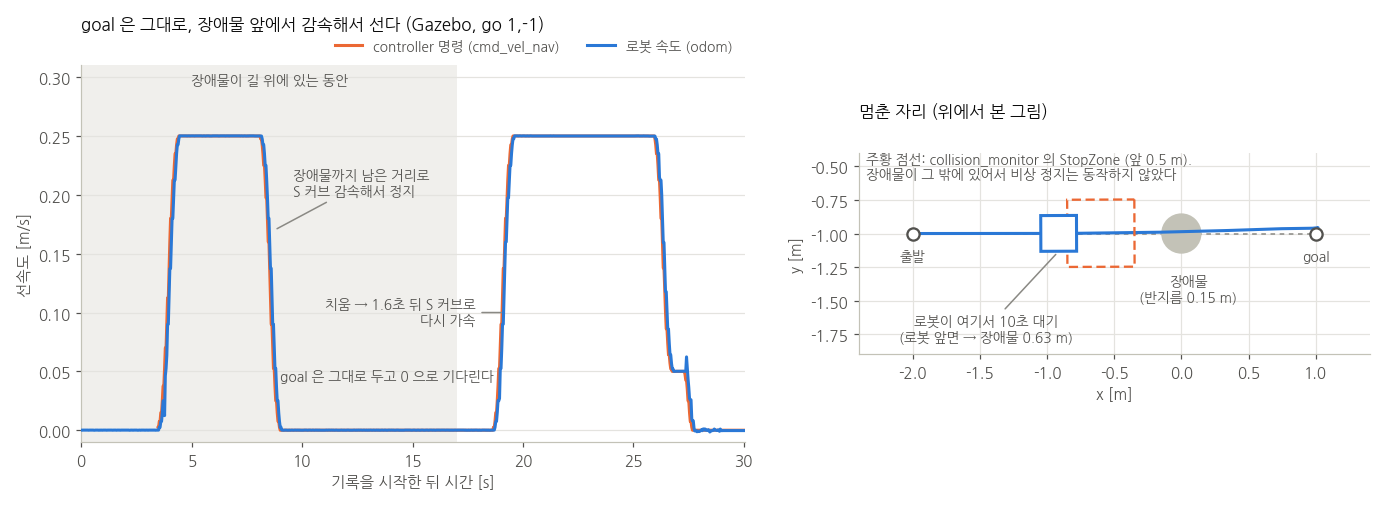
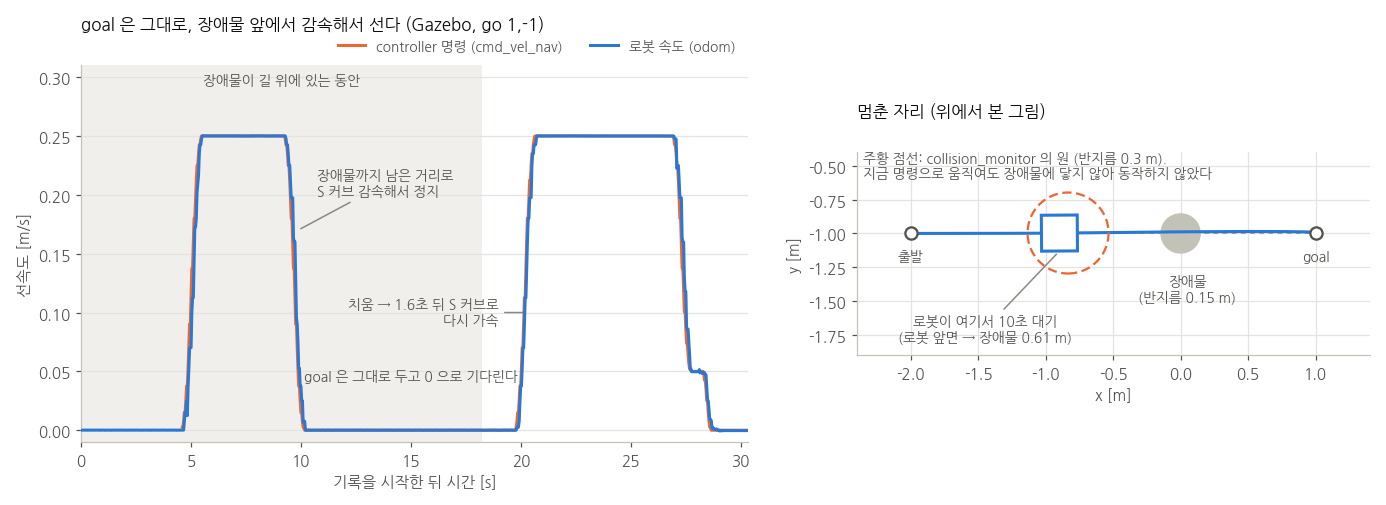
Let the robot turn away from an obstacle: direction-aware collision_monitor
With an obstacle inside the StopZone the robot could not turn around to leave: the stop action
zeroes the rotation too, so a goal behind the robot never started (0.5 deg in 60 s).

- collision_monitor: replace the front rectangle (stop) with a 0.3 m circle using approach. It moves
  the circle along the commanded twist for 1.2 s and only slows down motions that would hit, so
  turning in place or moving away is allowed. The circle covers the waffle's turning sweep (rear
  corners 0.24 m from the wheel axis), so a turn that would really hit is still blocked.
- Controller: a large heading change (new goal on the other side) starts the turn right away and
  clears the obstacle-wait state instead of waiting 1.6 s for it to time out.
- Controller: ignore obstacle cells behind the rotation center; the check around the first path
  point used to see the obstacle the robot had just turned its back on and kept it from leaving.
- Docs: AMR.md 5-2 (why not a rotation exception, field switching on real AMRs, approach in Humble),
  turn-away results and figure, bt_navigator chapter 6 and 7-3 updated.

Claude-Session: https://claude.ai/code/session_01BqMvk5fNNkehtke5C8YskT

diff --git a/simple_line/simple_line_controller/src/simple_line_controller.cpp b/simple_line/simple_line_controller/src/simple_line_controller.cpp
@@ -207,9 +207,18 @@ double SimpleLineController::obstacleDistanceOnPath(
           if (dx * dx + dy * dy > r * r || cx < 0 || cy < 0 || cx >= size_x || cy >= size_y) {
             continue;
           }
-          if (costmap->getCost(cx, cy) == nav2_costmap_2d::LETHAL_OBSTACLE) {
-            return travelled + f * seg;
+          if (costmap->getCost(cx, cy) != nav2_costmap_2d::LETHAL_OBSTACLE) {
+            continue;
           }
+          // 로봇(회전 중심)보다 뒤에 있는 것은 가는 길 위가 아니다. 경로의 첫 점은 로봇 자리라서, 그 둘레를 보면
+          // 돌아서서 멀어지려는 장애물까지 막힌 것으로 본다
+          double wx = 0.0;
+          double wy = 0.0;
+          costmap->mapToWorld(cx, cy, wx, wy);
+          if (c * (wx - pose.pose.position.x) + s * (wy - pose.pose.position.y) <= 0.0) {
+            continue;
+          }
+          return travelled + f * seg;
         }
       }
     }
@@ -322,14 +331,17 @@ geometry_msgs::msg::TwistStamped SimpleLineController::computeVelocityCommands(
   //   - 서 있는 상태에서 출발할 때 방향이 rotate_to_heading_tolerance 보다 틀어져 있을 때
   // 한 번 시작하면 방향 오차가 rotate_to_heading_tolerance 안으로 들어오고 회전이 멈출 때까지 계속한다.
   // 덜 돈 채로 출발하면 남은 오차를 pure pursuit 가 호를 그리며 줄여서 경로가 휜다.
-  // 장애물 앞에서 기다리는 동안에는 시작하지 않는다. collision_monitor 가 로봇을 세워 두면 회전 명령이
-  // 로봇에 닿지 않아 오차와 함께 커지기만 하고, 풀리는 순간 그 각속도가 한 번에 나간다
+  // 장애물 앞에서 기다리는 동안에는 출발 전 방향 맞추기(작은 회전)를 하지 않는다. 회전 명령이 막혀 있으면
+  // 오차와 함께 커지기만 하다가 풀리는 순간 한 번에 나간다. 경로가 크게 틀어졌으면(새 goal 이 반대쪽)
+  // 기다리지 않고 바로 돈다. 장애물 상태는 지난 방향의 것이므로 비우고, 돈 뒤 새 경로에서 다시 본다
   const bool stopped = std::fabs(velocity.linear.x) < 0.01;
-  if (!rotating_ && !obstacle_braking_ &&
-    (std::fabs(carrot_angle) > rotate_to_heading_min_angle_ ||
-    (stopped && std::fabs(carrot_angle) > rotate_to_heading_tolerance_)))
+  const bool turn = std::fabs(carrot_angle) > rotate_to_heading_min_angle_;
+  if (!rotating_ &&
+    (turn || (stopped && !obstacle_braking_ && std::fabs(carrot_angle) > rotate_to_heading_tolerance_)))
   {
     rotating_ = true;
+    obstacle_braking_ = false;
+    clear_since_.reset();
   }
   if (rotating_ && std::fabs(carrot_angle) <= rotate_to_heading_tolerance_ &&
     std::fabs(velocity.angular.z) <= rotate_settled_angular_vel_)

diff --git a/simple_line/simple_line_bringup/launch/navigation.launch.py b/simple_line/simple_line_bringup/launch/navigation.launch.py
@@ -16,8 +16,8 @@
   controller_server, behavior_server --cmd_vel_nav--> collision_monitor --cmd_vel_safe-->
   velocity_smoother --cmd_vel--> 로봇
   장애물 앞 감속은 controller 가 경로 위 장애물까지의 거리로 S 커브를 그려 하고, collision_monitor 는
-  갑자기 나타난 것이 StopZone 에 들어올 때만 0 으로 바꾸는 비상 정지다. velocity_smoother 는
-  로봇이 낼 수 있는 가감속 한계를 지킨다.
+  지금 명령대로 움직이면 곧 부딪힐 때만 줄이거나 세우는 비상 정지다 (회전, 멀어지는 방향은 막지 않는다).
+  velocity_smoother 는 로봇이 낼 수 있는 가감속 한계를 지킨다.
 
 로봇이 줘야 하는 것: /scan, /odom, TF odom -> base_footprint -> base_scan, /cmd_vel 을 받아 움직이기.
 

diff --git a/simple_line/simple_line_bringup/launch/rviz.launch.py b/simple_line/simple_line_bringup/launch/rviz.launch.py
@@ -1,5 +1,5 @@
 """
-RViz: Nav2 기본 화면에 collision_monitor 의 StopZone(빨강)을 더한다.
+RViz: Nav2 기본 화면에 collision_monitor 의 Footprint 원(빨강)을 더한다.
 
   ros2 launch simple_line_bringup rviz.launch.py                     # 실제 로봇에 붙어서 (개발 PC)
   ros2 launch simple_line_bringup rviz.launch.py use_sim_time:=True  # 시뮬레이션 (simple_line.launch.py 가 띄운다)
@@ -15,7 +15,7 @@ from launch.substitutions import LaunchConfiguration
 from launch_ros.actions import Node
 import yaml
 
-ZONES = (('StopZone', '/polygon_stop', '255; 0; 0'),)
+ZONES = (('Footprint', '/polygon_footprint', '255; 0; 0'),)
 
 
 def launch_setup(context):

diff --git a/bt_navigator/README.md b/bt_navigator/README.md
@@ -611,7 +611,7 @@ void TaskServer::finish(Outcome outcome, const std::string & message)
     -3 ───┼──────────────┘                  -90
          -3              3  x
    출발 위치: (-2, -1), yaw 0°.  벽은 ±3m, 로봇 반지름을 생각해 ±2.5m 안을 쓴다
-   (벽을 보고 서는 점은 벽에서 0.6m 넘게. 더 가까우면 StopZone 에 벽이 들어온다, 9장)
+   (점은 벽, 물체에서 0.4m 넘게. 더 가까우면 controller 나 collision_monitor 가 벽 앞에서 세운다, 9장)
 ```
 
 **yaw 를 생략하면** 이렇게 채운다.
@@ -973,23 +973,24 @@ void TaskServerLifecycle::onPreempt(ExecuteTask::Goal::ConstSharedPtr goal)
 controller_server ─┐
                    ├─ /cmd_vel_nav ─▶ collision_monitor ─ /cmd_vel_safe ─▶ velocity_smoother ─ /cmd_vel ─▶ 로봇
 behavior_server ───┘                       ▲                              가속 0.6, 비상 감속 1.0 m/s² 한계
-  ▲                              /scan ────┘  StopZone 에 레이저 점: 0 (비상 정지)
+  ▲                              /scan ────┘  로봇 둘레 원(0.3 m)이 지금 명령대로 1.2초 안에 닿으면 줄이거나 0 (비상)
   └ controller: local costmap 에서 경로 위 장애물까지 거리를 재고, S 커브로 감속해서 그 앞에 선다
 ```
 
 - **평소: controller** (`SimpleLineController`). 경로를 따라가며 양옆 0.3 m 안에 레이저로 본 장애물(local costmap)이 있는 첫 지점까지 거리를 잰다. goal 앞에서 서는 것과 같은 S 커브(감속도 0.5 m/s², jerk 1 m/s³)로 감속해서, 로봇 중심에서 장애물까지 약 0.7 m 를 두고 선다. 로그: `obstacle on the path 0.xx m ahead, slowing down to stop`
 - 장애물이 사라지고(또는 0.3 m 넘게 멀어지고) 1초가 지나면 다시 S 커브로 가속한다. 로그: `path clear, going again`
-- **비상: collision_monitor**. 로봇 앞 0.5 m x 폭 0.5 m(StopZone)에 레이저 점이 4개 이상 들어오면 0 으로 바꾼다. velocity_smoother 가 1.0 m/s² 로 세운다. controller 가 서기에는 너무 가까이 갑자기 나타났을 때(앞으로 끼어든 사람)만 동작한다. 로그: `Robot to stop due to StopZone polygon`, 비면 `Robot to continue normal operation`
+- **비상: collision_monitor** (`approach`). 로봇 둘레 원(반지름 0.3 m)을 지금 명령한 속도로 1.2초 앞까지 움직여 보고, 레이저 점에 닿으면 닿기까지 남은 시간에 비례해 속도를 줄인다. 원이 이미 닿아 있으면 0. velocity_smoother 가 1.0 m/s² 로 잇는다. controller 가 서기에는 너무 가까이 갑자기 나타났을 때(앞으로 끼어든 사람)만 동작한다. 로그: `Robot to approach for 1.200000 seconds away from collision`, 풀리면 `Robot to continue normal operation`
+- **움직이는 방향만 본다.** 장애물 앞에 서 있어도 그쪽으로 가는 명령만 막고, 돌아서 나가는 회전이나 멀어지는 방향은 막지 않는다. 처음에는 로봇 앞 사각형(StopZone, `stop`)에 점이 있으면 회전까지 0 이 되어, 장애물 앞에 선 로봇에게 반대쪽 goal 을 줘도 돌지 못했다 ([AMR.md 5-2](../simple_line/AMR.md#5-2-비상-감속-움직이는-방향만-본다-collision_monitor-approach)).
 - 그동안 Nav2 와 미션 BT 는 하던 일을 계속한다. `FollowPath`, `NavigateToPose`, 작업 모두 RUNNING 이다.
-- 미션 BT(`task.xml`)에는 장애물 코드가 없다. RViz 의 Nav2 Goal, `ros2 action send_goal`, waypoint_follower 까지 controller 로 가는 모든 이동에 똑같이 적용된다. 비상 정지는 behavior_server 의 동작과 `cmd_vel_nav` 로 보낸 teleop 에도 적용된다.
+- 미션 BT(`task.xml`)에는 장애물 코드가 없다. RViz 의 Nav2 Goal, `ros2 action send_goal`, waypoint_follower 까지 controller 로 가는 모든 이동에 똑같이 적용된다. 비상 감속은 behavior_server 의 동작과 `cmd_vel_nav` 로 보낸 teleop 에도 적용된다.
 - 처음에는 collision_monitor 에 SlowZone(앞 1 m 에서 0.3배)을 두고 감속까지 맡겼다. 속도가 구역 경계에서 한 번에 바뀌어 덜컹거리고(로봇에 간 명령의 jerk 12 m/s³), 장애물이 어디 있든 1 m 앞부터 기어가서 바꿨다. 비교와 가감속 알고리즘 정리는 [simple_line/AMR.md](../simple_line/AMR.md) 4, 5장에 있다.
 
 ![stop and go](bt_mission/doc/stop_and_go.png)
 
 Gazebo 에서 (0,-1) 에 장애물(반지름 0.15 m)을 놓고 Nav2 goal (1,-1) 을 보냈다. 선 뒤 8초가 지나 치웠다 (7-3).
 
-- **왼쪽**: 로봇은 0.25 m/s 로 가다가 필요한 거리에서만 S 커브로 감속해서 섰다 (로봇 중심에서 장애물까지 0.80 m 에서 시작해 0.82초, 10.0 cm 만에 섰다). 치우자 1.6초 뒤 다시 S 커브로 가속해서 goal 까지 갔다.
-- **오른쪽**: 로봇 앞면에서 장애물 표면까지 0.63 m 를 두고 섰다. StopZone(주황 점선) 밖이라 비상 정지는 동작하지 않았다. 경로는 처음 직선 그대로다.
+- **왼쪽**: 로봇은 0.25 m/s 로 가다가 필요한 거리에서만 S 커브로 감속해서 섰다 (로봇 중심에서 장애물까지 0.79 m 에서 시작해 0.88초, 10.5 cm 만에 섰다). 치우자 1.6초 뒤 다시 S 커브로 가속해서 goal 까지 갔다.
+- **오른쪽**: 로봇 앞면에서 장애물 표면까지 0.61 m 를 두고 섰다. collision_monitor 의 원(주황 점선)이 지금 명령으로는 장애물에 닿지 않아 비상 감속은 동작하지 않았다. 경로는 처음 직선 그대로다.
 
 ### 6-1. 직접 해 보기 (Gazebo)
 
@@ -1009,7 +1010,8 @@ task> go 1,-1,0
 2. 원기둥이 레이저에 보이면(local costmap 에 표시되면) 로봇이 감속해서 그 앞 약 0.7 m 에 선다. 터미널 1 에 `obstacle on the path ... slowing down to stop` 이 나온다.
 3. 원하는 만큼 기다린 뒤, Publish Point 로 그 원기둥을 다시 찍는다. 원기둥이 사라지고 `path clear, going again` 이 나온 뒤 로봇이 다시 간다.
 4. 작업은 끝까지 가서 `SUCCEEDED` 로 끝난다. 30초 넘게 막혀 있으면 Nav2 가 재시도를 시작한다 (6-3).
-5. 비상 정지를 보려면 로봇 바로 앞(0.3~0.4 m)을 찍는다. RViz 의 빨간 사각형(StopZone)에 들어오면 `Robot to stop due to StopZone polygon` 이 나오고 1.0 m/s² 로 선다.
+5. 비상 감속을 보려면 달리는 로봇 바로 앞(0.4~0.5 m)을 찍는다. `Robot to approach ...` 가 나오고 1.0 m/s² 로 줄여 선다.
+6. 그 상태에서 `task> go -2,-1,180` 처럼 반대쪽 goal 을 보내면 로봇이 그 자리에서 돌아서 간다. 장애물이 로봇 중심에서 0.3 m 안(RViz 의 빨간 원 안)이면 돌다가 닿을 수 있어서 돌지 않는다. 치우거나 조이스틱으로 빼낸다.
 
 장애물은 다른 방법으로도 놓고 치울 수 있다.
 
@@ -1030,7 +1032,7 @@ task> go 1,-1,0
 | 파일 | 하는 일 |
 |---|---|
 | `launch/navigation.launch.py` | collision_monitor 와 velocity_smoother 를 띄우고 속도 토픽을 위 그림처럼 잇는다. controller_server 와 behavior_server 의 출력은 `/cmd_vel_nav`, 로봇은 표준 `/cmd_vel` 을 듣는다 |
-| `launch/rviz.launch.py` | Nav2 기본 RViz 설정에 StopZone(빨강, `/polygon_stop`) 표시를 더한다 |
+| `launch/rviz.launch.py` | Nav2 기본 RViz 설정에 collision_monitor 의 원(빨강, `/polygon_footprint`) 표시를 더한다 |
 | `params/simple_line_params.yaml` | `controller_server` 의 `FollowPath`(장애물 감속)와 `progress_checker`, `collision_monitor`, `velocity_smoother` |
 
 ```yaml
@@ -1051,12 +1053,14 @@ collision_monitor:
   ros__parameters:
     cmd_vel_in_topic: "cmd_vel_nav"        # controller, behavior_server 가 내는 속도
     cmd_vel_out_topic: "cmd_vel_safe"      # velocity_smoother 로
-    polygons: ["StopZone"]
-    StopZone:
-      type: "polygon"
-      points: [0.5, 0.25, 0.5, -0.25, 0.0, -0.25, 0.0, 0.25]   # base_footprint 기준 [m]
-      action_type: "stop"
-      max_points: 3                        # 구역 안의 점이 이보다 많으면 동작
+    polygons: ["Footprint"]
+    Footprint:
+      type: "circle"
+      radius: 0.3                          # 제자리에서 돌 때 쓸고 가는 원(0.24 m) + 여유
+      action_type: "approach"              # 지금 명령대로 움직여 보고 닿을 때만 줄인다
+      time_before_collision: 1.2           # [s]
+      simulation_time_step: 0.05           # [s]
+      max_points: 3                        # 원 안의 점이 이보다 많으면 닿은 것
     observation_sources: ["scan"]
     scan: {type: "scan", topic: "scan"}
 
@@ -1069,10 +1073,11 @@ velocity_smoother:
 | 값 | 여기서 | 바꾸면 |
 |---|---|---|
 | `obstacle_check_width` | 0.3 m | 로봇 반폭 + 여유. 좁은 통로에서 옆 선반에 서 버리면 줄이고, 옆으로 튀어나온 물체를 놓치면 늘린다 |
-| `obstacle_stop_distance` | 0.4 m | 서는 자리 (로봇 중심 → 장애물 약 width + 이 값). StopZone 보다 넉넉히 멀어야 평소에 비상 정지가 걸리지 않는다 |
+| `obstacle_stop_distance` | 0.4 m | 서는 자리 (로봇 중심 → 장애물 약 width + 이 값). 원 반지름 + (속도 x 1.2초) 보다 멀어야 평소에 비상 감속이 걸리지 않는다 |
 | `obstacle_resume_delay` | 1.0 s | 길이 빈 뒤 출발까지. 레이저 잡음에 꿈틀거리면 늘린다 |
-| `StopZone.points` | 앞 0.5 m, 좌우 0.25 m | 비상 정지 거리와 폭. waffle 의 앞면은 base_footprint 에서 0.07 m, 폭은 0.31 m 다. 빠른 로봇은 서는 데 필요한 거리보다 길게 ([AMR.md 5장](../simple_line/AMR.md#5-장애물-앞에서-감속하고-서기)) |
-| `max_points` | 3 | 레이저 잡음에 섰다 가면 늘리고, 가는 물체를 놓치면 줄인다 |
+| `Footprint.radius` | 0.3 m | 로봇이 제자리에서 돌 때 쓸고 가는 반지름 + 여유. waffle 은 회전 중심이 앞쪽이라 뒤 모서리가 0.24 m. 길쭉한 로봇이면 `type: "polygon"` 으로 실제 모양 ([AMR.md 5-2](../simple_line/AMR.md#5-2-비상-감속-움직이는-방향만-본다-collision_monitor-approach)) |
+| `time_before_collision` | 1.2 s | 이만큼 앞까지 움직여 본다. 속도 x 이 값이 서는 데 필요한 거리보다 길게 |
+| `max_points` | 3 | 레이저 잡음에 줄었다 가면 늘리고, 가는 물체를 놓치면 줄인다 |
 | velocity_smoother `max_decel` | -1.0 m/s² | 비상 정지 감속도. 짐이 미끄러지지 않는 가장 큰 값 |
 | `progress_checker.movement_time_allowance` | 30 s | 서 있는 동안 Nav2 가 기다려 주는 시간 (6-3) |
 | `source_timeout` | 5 s | scan 이 이보다 오래되면 버린다. Humble 은 그때 막힌 곳이 없는 것으로 본다 (9장) |
@@ -1106,7 +1111,7 @@ navigation BT 는 Nav2 기본 트리에서 제자리 회전, 후진 recovery 를
 **AMR 들도 장애물에는 보통 이렇게 한다.**
 
 - 주행 소프트웨어가 경로 위 장애물을 보고 미리 감속해서 그 앞에 선다. 비면 다시 간다. 주행 명령은 취소되지 않는다. 이 저장소의 controller 가 하는 일이다.
-- 그 아래에 안전 레이저 스캐너가 있다. 보호 구역(protective field)에 무엇이 들어오면 모터를 세우고, 구역이 비면 다시 간다 (자동 재시작으로 설정했을 때). 속도에 따라 구역을 바꾸고, 그 앞에 경고 구역(warning field)을 두어 감속시키기도 한다. collision_monitor 의 StopZone 은 이것을 소프트웨어로 흉내 낸 것이다.
+- 그 아래에 안전 레이저 스캐너가 있다. 보호 구역(protective field)에 무엇이 들어오면 모터를 세우고, 구역이 비면 다시 간다 (자동 재시작으로 설정했을 때). 구역은 움직임에 따라 바꾼다 (전진 속도 구간마다 다른 길이, 제자리 회전 때는 로봇을 둘러싼 작은 구역, 후진 때는 뒤쪽). 그 앞에 경고 구역(warning field)을 두어 감속시키기도 한다. collision_monitor 의 approach 는 "지금 움직이는 방향으로 부딪히는가" 를 보는 점에서 이 구역 전환과 같은 일을 소프트웨어로 한다.
 - 정해 둔 시간보다 오래 막히면 경로를 다시 짜서 돌아가거나, 관제에 "길이 막힘" 을 알린다.
 - 명령을 취소하고 다시 주는 방식은 관제(fleet) 쪽에서 쓴다. 교통 정리(다른 로봇에게 길 양보), 작업을 다른 로봇에 넘길 때, 사람이 일시정지를 누를 때다.
 
@@ -1116,8 +1121,8 @@ navigation BT 는 Nav2 기본 트리에서 제자리 회전, 후진 recovery 를
 |---|---|---|
 | Nav2 goal | 그대로 (pending) | 취소 → 같은 점으로 새 goal |
 | 멈추는 곳 | controller 가 내는 속도 (비상이면 로봇에 가는 속도) | Nav2 위 (미션 BT) |
-| 적용 범위 | controller 로 가는 모든 이동. 비상 정지는 recovery 동작, `cmd_vel_nav` 로 보낸 teleop 까지 | 미션 BT 가 보낸 `NavigateToPose` 만 |
-| 서는 자리 | 경로 위 장애물 0.4 m 앞 (경로를 따라 잰다). 비상: 로봇 앞 사각형 | goal 까지의 직선 위 |
+| 적용 범위 | controller 로 가는 모든 이동. 비상 감속은 recovery 동작, `cmd_vel_nav` 로 보낸 teleop 까지 | 미션 BT 가 보낸 `NavigateToPose` 만 |
+| 서는 자리 | 경로 위 장애물 0.4 m 앞 (경로를 따라 잰다). 비상: 로봇 둘레 원을 움직이는 방향으로 | goal 까지의 직선 위 |
 | 감속 | S 커브 (jerk 1 m/s³) | Nav2 취소 시 0 → velocity_smoother 로 |
 | 미션이 아는가 | 모른다 (작업은 RUNNING) | feedback `blocked` 로 알렸다 |
 | 오래 막히면 | progress checker 가 30초마다 재시도, 약 7.6분 뒤 실패 (회전, 후진 없음) | `max_wait` 로 정했다 |
@@ -1217,17 +1222,18 @@ navigation BT 는 Nav2 기본 트리에서 제자리 회전, 후진 recovery 를
 | 경우 | 결과 |
 |---|---|
 | Nav2 goal (1,-1), 빈 방. 출발 전에 (0,-1) 에 장애물, 선 뒤 8초가 지나면 치움 (6장 그림) | SUCCEEDED. 로봇 중심 → 장애물 0.80 m 에서 S 커브 감속 시작, 0.82초 뒤 0.70 m (앞면 0.63 m) 에 섬. 비상 정지 동작 없음. 기다리는 동안 움직임 없음. 치우자 1.6초 뒤 다시 가속 |
-| 같은 goal, 달리는 로봇 0.4 m 앞에 갑자기 장애물 (StopZone 안), 선 뒤 5초가 지나면 치움 | SUCCEEDED. StopZone 이 0.27초 / 2.6 cm 만에 세움 (1.0 m/s²). 치우자 1.8초 뒤 S 커브로 출발 |
+| 같은 goal, 달리는 로봇 0.4 m 앞에 갑자기 장애물, 선 뒤 5초가 지나면 치움 | SUCCEEDED. collision_monitor approach 로 0.95초 / 5.0 cm 만에 0.33 m 앞에 섬. 치우자 1.9초 뒤 S 커브로 출발 |
+| 장애물 앞에 선 로봇에게 반대쪽 goal (-2,-1, 180°) | 0.70 m 앞에 섰을 때 0.5초, 0.33 m 앞에 섰을 때 0.3초 뒤 돌기 시작, 둘 다 SUCCEEDED. 0.20 m 앞(원 안, 돌면 닿음)이면 돌지 않음. 처음(StopZone)에는 0.33 m 앞에서 60초 동안 돌지 못했다 |
 | 창고 월드, 장애물을 치우지 않음 | 457초 동안 움직이지 않고 30초마다 재시도, 그 뒤 ABORTED (6-3) |
 | 작업 4개 (7장 처음의 목록), 빈 방, 장애물 없음 | 모두 SUCCEEDED, 74 s |
-| 창고 월드 경로 9점, AMCL | SUCCEEDED. 선반, 벽 옆에서 잘못 서지 않음 |
+| 창고 월드 경로 9점, AMCL | SUCCEEDED. 선반, 벽 옆에서 controller 도 collision_monitor 도 잘못 서지 않음 |
 | `obstacle.py click` 에 `/clicked_point` 를 세 번 보냄 (두 곳, 그리고 첫 장애물 근처) | 두 개를 놓고, 세 번째에 첫 장애물을 치웠다 |
 | `obstacle.py remove` | 남은 `obstacle_*` 를 모두 치웠다. 남은 것이 없으면 `no obstacles to remove` |
 
 - 처음 방식(collision_monitor 의 SlowZone 0.3배 + StopZone)에서는 0.97 m 앞에서 0.075 m/s 로 줄여 6초 기어간 뒤 섰고, 로봇에 간 명령의 jerk 가 12 m/s³ 였다 ([AMR.md 5장](../simple_line/AMR.md#5-장애물-앞에서-감속하고-서기)).
-- 확인하면서 고친 것: 기다리는 동안 출발 전 회전 명령이 쌓였다가 풀릴 때 0.42 rad/s 로 튀던 것, 섰다가 5 cm 움찔 다시 가던 것, 감속 중에 0.4초 풀렸다가 다시 감속하던 것 (AMR.md 5-1).
+- 확인하면서 고친 것: 기다리는 동안 출발 전 회전 명령이 쌓였다가 풀릴 때 0.42 rad/s 로 튀던 것, 섰다가 5 cm 움찔 다시 가던 것, 감속 중에 0.4초 풀렸다가 다시 감속하던 것, 장애물을 등지고 돌아선 뒤에도 등 뒤의 그것을 "앞에 있다" 고 보던 것 (AMR.md 5-1).
 - 창고 월드에서 지도 만들기, AMCL, 가감속을 확인한 결과는 [AMR.md 8장](../simple_line/AMR.md#8-확인한-것) 에 있다.
-- RViz 는 화면 없이(Xvfb) 띄워서, 고친 설정이 열리고 `StopZone` 표시가 로봇 앞 사각형으로 그려지는 것까지 확인했다.
+- RViz 는 화면 없이(Xvfb) 띄워서, 고친 설정이 열리고 collision_monitor 의 구역 표시(`Footprint`)가 목록에 들어가는 것까지 확인했다. 원(`/polygon_footprint`)은 주행 중 20 Hz 로 나왔다. Humble 의 collision_monitor 는 속도 명령이 들어올 때만 내므로, 로봇이 서 있으면 RViz 에 새로 그려지지 않는다.
 - Gazebo 창(GUI)에서 물체를 놓고 지우는 방법은 확인하지 못했다.
 
 ---
@@ -1252,8 +1258,8 @@ navigation BT 는 Nav2 기본 트리에서 제자리 회전, 후진 recovery 를
 - **점에 얼마나 정확히 서나**: goal checker 의 `xy_goal_tolerance` / `yaw_goal_tolerance` 가 정한다. `simple_line_params.yaml` 에서 0.05m / 0.05rad 로 줄였다 (Humble 기본 0.25 / 0.25). 실측으로 점에서 3~5cm 안에 섰다.
 - **`ros2 action send_goal` 로 보낼 때 방향**: `orientation` 을 안 적으면 0° 다. 점마다 0° 로 돌았다가 다음 점으로 가므로, 방향을 적거나 `task_client.py` 를 쓴다 (4-5-5).
 - **`task_server` 와 `task_server_lifecycle` 은 같이 띄우지 않는다.** 둘 다 `/execute_task` 액션을 연다.
-- **벽도 장애물이다.** 경로나 goal 이 벽, 선반에서 0.3 m(`obstacle_check_width`) 안을 지나면 controller 가 그 0.4 m 앞에서 서서 기다린다. planner 는 0.22 m(로봇 반지름)까지만 거절하므로 그 사이의 점은 경로는 나오는데 도착하지 못한다. 벽 쪽을 보고 서는 점은 StopZone(0.5 m) 때문에 벽에서 0.6 m 넘게 떨어뜨린다.
-- **비상 정지는 제자리 회전도 막는다.** StopZone 에 점이 있으면 회전 속도도 0 이다. 점에서 방향을 맞추다가 옆의 물체가 앞으로 들어오면 거기서 선다.
+- **벽도 장애물이다.** 경로나 goal 이 벽, 선반에서 0.3 m(`obstacle_check_width`) 안을 지나면 controller 가 그 0.4 m 앞에서 서서 기다린다. planner 는 0.22 m(로봇 반지름)까지만 거절하므로 그 사이의 점은 경로는 나오는데 도착하지 못한다. collision_monitor 의 원도 0.3 m 라서, 점은 벽, 물체에서 0.4 m 넘게 떨어뜨린다.
+- **회전은 정말 닿을 때만 막는다.** collision_monitor 는 지금 명령대로 움직여 보고 판단하므로 장애물 앞에서도 돌아서 나갈 수 있다. 다만 로봇 중심에서 0.3 m(원) 안에 무엇이 있으면 돌다가 뒤 모서리가 닿을 수 있어서 회전도 0 이다. 이 controller 는 후진하지 않으므로, 그때는 사람이 치우거나 조이스틱으로 빼낸다.
 - **레이저가 끊기면 멈추지 않는다 (Humble).** scan 이 `source_timeout`(5초)보다 오래되면 collision_monitor 는 그 데이터를 버리고 막힌 곳이 없는 것으로 본다. 레이저가 죽었는지는 따로 감시한다.
 - **레이저 높이의 물체만 본다.** 2D 레이저 평면보다 낮거나 높은 물체(낮은 상자, 테이블 상판)는 보지 못한다. 필요하면 local costmap 과 collision_monitor 의 `observation_sources` 에 depth 카메라 점구름(`pointcloud`)을 더한다.
 - **오래 막히면 Nav2 가 재시도한다.** 30초마다 재시도하고 약 7.6분 뒤 실패한다. 회전, 후진 recovery 는 뺐다 (6-3).
